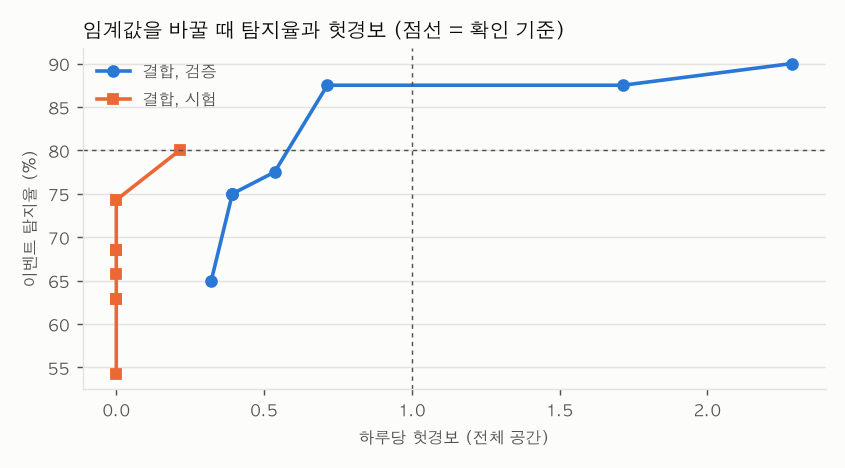
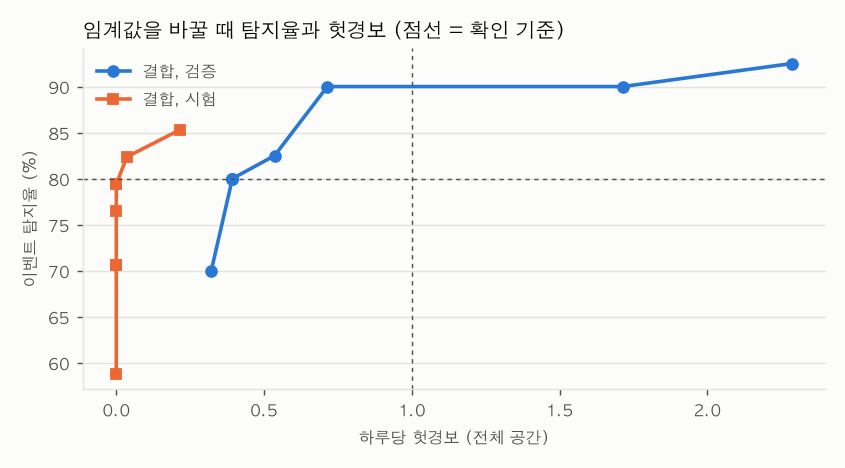
Add round 2 results for assignments 4 and 5
Anomaly: retrained AE with frozen-humidity rule, evaluated on test seeds 33 and 22.
State: reran with false-occupied <= 2% threshold rule (no threshold met it on val, 0.95 kept).

diff --git a/docs/reports/004-detection.md b/docs/reports/004-detection.md
@@ -1,6 +1,6 @@
 # 과제 4 탐지 성적표
 
-`python -m anomaly evaluate`가 만든 표. 만든 시각 2026-10-22 01:20 UTC. 해석은 [004-anomaly.md](004-anomaly.md).
+`python -m anomaly evaluate`가 만든 표. 만든 시각 2026-10-22 09:01 UTC. 해석은 [004-anomaly.md](004-anomaly.md).
 
 ## 측정 조건
 
@@ -13,9 +13,9 @@
 | 시험 기간 | 2026-09-23 ~ 2026-10-21 KST (끝 미포함, 28일) |
 | 칸 | 5분, [t−5분, t) → t |
 | 실행 환경 | Darwin arm64, Python 3.12.15 (분석은 보드 밖에서, 전력 모드 해당 없음) |
-| 코드·설정 커밋 | `976b74e (커밋 안 된 수정 있음)` (`preprocess.toml`) |
-| 고장 | 합성 5종을 실데이터 복사본에 주입. 검증 씨앗 11 40건(임계값 결정), 시험 씨앗 22 35건(평가) |
-| 모델 | 오토인코더 (창 12칸, 학습 기간 정상 데이터만), 임계값 0.0917 (2026-10-22T01:19:38Z, 검증 기준) |
+| 코드·설정 커밋 | `1826f6f` (`preprocess.toml`) |
+| 고장 | 합성 5종을 실데이터 복사본에 주입. 검증 씨앗 11 40건(임계값 결정), 시험 씨앗 33 34건(평가) |
+| 모델 | 오토인코더 (창 12칸, 학습 기간 정상 데이터만), 임계값 0.0917 (2026-10-22T09:01:03Z, 검증 기준) |
 | 규칙 기준값 | 학습 기간. 값 고정 칸 수 {'co2': 9, 'humidity': 230} (정상 최장 {'co2': 6, 'humidity': 153}) |
 | 경보 묶기 | 60분 안의 경보는 한 이벤트, 고장 끝 뒤 유예 60분 |
 
@@ -23,7 +23,7 @@
 
 | 조건 | 결과 | 판정 |
 |---|---|---|
-| 1. 모델+규칙 이벤트 탐지율 ≥ 80% | 24/35 = 69% | 미통과 |
+| 1. 모델+규칙 이벤트 탐지율 ≥ 80% | 27/34 = 79% | 미통과 |
 | 2. 헛경보 ≤ 하루 1회 (전체 공간) | 0건 / 28일 = 0.00회/일 | 통과 |
 | 3. 모델·규칙이 못 잡는 종류와 이유 | 아래 종류별 표, 해석은 004-anomaly.md | - |
 
@@ -31,17 +31,17 @@
 
 | 고장 | 건수 | 모델 | 규칙 | 결합 | 결합 지연 중앙값 | 원인 항목 맞음 (결합) |
 |---|---:|---:|---:|---:|---:|---:|
-| 튄 값 | 8 | 8/8 | 8/8 | 8/8 | 0분 | 8/8 |
-| 값 고정 | 8 | 1/8 | 2/8 | 2/8 | 35분 | 2/8 |
-| 영점 틀어짐 | 8 | 5/8 | 4/8 | 6/8 | 900분 | 6/8 |
-| 냉방 정지 | 8 | 8/8 | 1/8 | 8/8 | 155분 | 8/8 |
-| 환기 정지 | 3 | 0/3 | 0/3 | 0/3 | - | 0/3 |
+| 튄 값 | 8 | 8/8 | 7/8 | 8/8 | 0분 | 7/8 |
+| 값 고정 | 8 | 1/8 | 4/8 | 4/8 | 35분 | 4/8 |
+| 영점 틀어짐 | 8 | 6/8 | 4/8 | 7/8 | 1190분 | 7/8 |
+| 냉방 정지 | 8 | 8/8 | 4/8 | 8/8 | 138분 | 7/8 |
+| 환기 정지 | 2 | 0/2 | 0/2 | 0/2 | - | 0/2 |
 
 | 방법 | 탐지 | 탐지율 | 지연 중앙값 | 헛경보 | 하루당 |
 |---|---:|---:|---:|---:|---:|
-| 모델만 | 22/35 | 63% | 140분 | 0 | 0.00 |
-| 규칙만 | 15/35 | 43% | 5분 | 0 | 0.00 |
-| 결합 | 24/35 | 69% | 132분 | 0 | 0.00 |
+| 모델만 | 23/34 | 68% | 145분 | 0 | 0.00 |
+| 규칙만 | 19/34 | 56% | 35분 | 0 | 0.00 |
+| 결합 | 27/34 | 79% | 120분 | 0 | 0.00 |
 
 헛경보를 낸 탐지기 (결합): 없음
 
@@ -51,27 +51,23 @@
 
 | 임계값 | 검증 결합 탐지율 | 검증 헛경보/일 | 시험 결합 탐지율 | 시험 헛경보/일 | 시험 모델만 탐지율 |
 |---:|---:|---:|---:|---:|---:|
-| 0.0599 | 90% | 2.29 | 80% | 0.21 | 77% |
-| 0.0705 | 88% | 1.71 | 74% | 0.00 | 71% |
-| 0.0917 ← 선택 | 88% | 0.71 | 69% | 0.00 | 63% |
-| 0.1084 | 78% | 0.54 | 69% | 0.00 | 63% |
-| 0.1342 | 75% | 0.39 | 66% | 0.00 | 51% |
-| 0.1709 | 75% | 0.39 | 63% | 0.00 | 49% |
-| 0.1941 | 75% | 0.39 | 63% | 0.00 | 49% |
-| 0.2972 | 65% | 0.32 | 54% | 0.00 | 37% |
+| 0.0599 | 92% | 2.29 | 85% | 0.21 | 76% |
+| 0.0705 | 90% | 1.71 | 82% | 0.04 | 74% |
+| 0.0917 ← 선택 | 90% | 0.71 | 79% | 0.00 | 68% |
+| 0.1084 | 82% | 0.54 | 79% | 0.00 | 65% |
+| 0.1342 | 80% | 0.39 | 76% | 0.00 | 59% |
+| 0.1709 | 80% | 0.39 | 71% | 0.00 | 47% |
+| 0.1941 | 80% | 0.39 | 71% | 0.00 | 47% |
+| 0.2972 | 70% | 0.32 | 59% | 0.00 | 26% |
 
 ## 놓친 고장 (결합)
 
 | 종류 | 공간 | 항목 | 시작 (KST) | 크기 |
 |---|---|---|---|---:|
-| 값 고정 | 사무실 | humidity | 09-26 07:10 | 1.3 |
-| 영점 틀어짐 | 실습실 | co2 | 09-28 02:20 | 292.5 |
-| 값 고정 | 사무실 | humidity | 09-30 00:45 | 1.3 |
-| 영점 틀어짐 | 회의실 | co2 | 10-05 16:25 | 266.5 |
-| 값 고정 | 사무실 | humidity | 10-08 17:20 | 2.8 |
-| 값 고정 | 사무실 밖 | humidity | 10-11 18:15 | 2.6 |
-| 값 고정 | 실습실 | humidity | 10-13 02:05 | 4.0 |
-| 환기 정지 | 실습실 | co2 | 10-15 09:00 | 1.8 |
-| 환기 정지 | 실습실 | co2 | 10-16 09:00 | 1.8 |
-| 값 고정 | 실습실 | humidity | 10-16 20:40 | 3.2 |
+| 값 고정 | 회의실 | humidity | 09-30 12:30 | 3.5 |
+| 값 고정 | 사무실 밖 | temperature | 09-30 19:45 | 1.8 |
+| 영점 틀어짐 | 실습실 | co2 | 10-05 05:15 | 289.8 |
+| 값 고정 | 실습실 | humidity | 10-07 07:35 | 3.1 |
+| 값 고정 | 회의실 | humidity | 10-07 23:30 | 2.9 |
+| 환기 정지 | 실습실 | co2 | 10-14 13:00 | 1.8 |
 | 환기 정지 | 실습실 | co2 | 10-19 13:00 | 1.8 |

diff --git a/docs/reports/004-detection-seed22.md b/docs/reports/004-detection-seed22.md
@@ -1,0 +1,77 @@
+# 과제 4 탐지 성적표
+
+`python -m anomaly evaluate`가 만든 표. 만든 시각 2026-10-22 09:06 UTC. 해석은 [004-anomaly.md](004-anomaly.md).
+
+## 측정 조건
+
+| 항목 | 값 |
+|---|---|
+| 데이터 | 실데이터 (교육장 InfluxDB `iot-bucket`), 합성 아님 |
+| 데이터 기간 | 2025-09-03 15:45 ~ 2026-10-21 16:00 KST (5분 칸 끝 시각) |
+| 학습 기간 | 2025-09-03 ~ 2026-08-26 KST (끝 미포함, 357일) |
+| 검증 기간 | 2026-08-26 ~ 2026-09-23 KST (끝 미포함, 28일) |
+| 시험 기간 | 2026-09-23 ~ 2026-10-21 KST (끝 미포함, 28일) |
+| 칸 | 5분, [t−5분, t) → t |
+| 실행 환경 | Darwin arm64, Python 3.12.15 (분석은 보드 밖에서, 전력 모드 해당 없음) |
+| 코드·설정 커밋 | `1826f6f` (`preprocess.toml`) |
+| 고장 | 합성 5종을 실데이터 복사본에 주입. 검증 씨앗 11 40건(임계값 결정), 시험 씨앗 22 35건(평가) |
+| 모델 | 오토인코더 (창 12칸, 학습 기간 정상 데이터만), 임계값 0.0917 (2026-10-22T09:01:03Z, 검증 기준) |
+| 규칙 기준값 | 학습 기간. 값 고정 칸 수 {'co2': 9, 'humidity': 230} (정상 최장 {'co2': 6, 'humidity': 153}) |
+| 경보 묶기 | 60분 안의 경보는 한 이벤트, 고장 끝 뒤 유예 60분 |
+
+## 완료 조건
+
+| 조건 | 결과 | 판정 |
+|---|---|---|
+| 1. 모델+규칙 이벤트 탐지율 ≥ 80% | 24/35 = 69% | 미통과 |
+| 2. 헛경보 ≤ 하루 1회 (전체 공간) | 0건 / 28일 = 0.00회/일 | 통과 |
+| 3. 모델·규칙이 못 잡는 종류와 이유 | 아래 종류별 표, 해석은 004-anomaly.md | - |
+
+## 고장 종류별 (시험 기간)
+
+| 고장 | 건수 | 모델 | 규칙 | 결합 | 결합 지연 중앙값 | 원인 항목 맞음 (결합) |
+|---|---:|---:|---:|---:|---:|---:|
+| 튄 값 | 8 | 8/8 | 8/8 | 8/8 | 0분 | 7/8 |
+| 값 고정 | 8 | 1/8 | 2/8 | 2/8 | 35분 | 2/8 |
+| 영점 틀어짐 | 8 | 5/8 | 4/8 | 6/8 | 900분 | 6/8 |
+| 냉방 정지 | 8 | 8/8 | 3/8 | 8/8 | 155분 | 6/8 |
+| 환기 정지 | 3 | 0/3 | 0/3 | 0/3 | - | 0/3 |
+
+| 방법 | 탐지 | 탐지율 | 지연 중앙값 | 헛경보 | 하루당 |
+|---|---:|---:|---:|---:|---:|
+| 모델만 | 22/35 | 63% | 140분 | 0 | 0.00 |
+| 규칙만 | 17/35 | 49% | 35분 | 0 | 0.00 |
+| 결합 | 24/35 | 69% | 132분 | 0 | 0.00 |
+
+헛경보를 낸 탐지기 (결합): 없음
+
+## 임계값을 바꿀 때
+
+![004-threshold](figures/004-threshold-seed22.png)
+
+| 임계값 | 검증 결합 탐지율 | 검증 헛경보/일 | 시험 결합 탐지율 | 시험 헛경보/일 | 시험 모델만 탐지율 |
+|---:|---:|---:|---:|---:|---:|
+| 0.0599 | 92% | 2.29 | 80% | 0.21 | 77% |
+| 0.0705 | 90% | 1.71 | 74% | 0.00 | 71% |
+| 0.0917 ← 선택 | 90% | 0.71 | 69% | 0.00 | 63% |
+| 0.1084 | 82% | 0.54 | 69% | 0.00 | 63% |
+| 0.1342 | 80% | 0.39 | 66% | 0.00 | 51% |
+| 0.1709 | 80% | 0.39 | 63% | 0.00 | 49% |
+| 0.1941 | 80% | 0.39 | 63% | 0.00 | 49% |
+| 0.2972 | 70% | 0.32 | 57% | 0.00 | 37% |
+
+## 놓친 고장 (결합)
+
+| 종류 | 공간 | 항목 | 시작 (KST) | 크기 |
+|---|---|---|---|---:|
+| 값 고정 | 사무실 | humidity | 09-26 07:10 | 1.3 |
+| 영점 틀어짐 | 실습실 | co2 | 09-28 02:20 | 292.5 |
+| 값 고정 | 사무실 | humidity | 09-30 00:45 | 1.3 |
+| 영점 틀어짐 | 회의실 | co2 | 10-05 16:25 | 266.5 |
+| 값 고정 | 사무실 | humidity | 10-08 17:20 | 2.8 |
+| 값 고정 | 사무실 밖 | humidity | 10-11 18:15 | 2.6 |
+| 값 고정 | 실습실 | humidity | 10-13 02:05 | 4.0 |
+| 환기 정지 | 실습실 | co2 | 10-15 09:00 | 1.8 |
+| 환기 정지 | 실습실 | co2 | 10-16 09:00 | 1.8 |
+| 값 고정 | 실습실 | humidity | 10-16 20:40 | 3.2 |
+| 환기 정지 | 실습실 | co2 | 10-19 13:00 | 1.8 |

diff --git a/docs/reports/005-classification.md b/docs/reports/005-classification.md
@@ -1,6 +1,6 @@
 # 과제 5 분류 성적표
 
-`python -m state run`이 만든 표. 만든 시각 2026-10-22 01:20 UTC. 해석은 [005-state.md](005-state.md).
+`python -m state run`이 만든 표. 만든 시각 2026-10-22 09:07 UTC. 해석은 [005-state.md](005-state.md).
 
 ## 측정 조건
 
@@ -13,12 +13,12 @@
 | 시험 기간 | 2026-09-23 ~ 2026-10-21 KST (끝 미포함, 28일) |
 | 칸 | 5분, [t−5분, t) → t |
 | 실행 환경 | Darwin arm64, Python 3.12.15 (분석은 보드 밖에서, 전력 모드 해당 없음) |
-| 코드·설정 커밋 | `976b74e (커밋 안 된 수정 있음)` (`preprocess.toml`) |
+| 코드·설정 커밋 | `1826f6f` (`preprocess.toml`) |
 | 사용 여부 정답 | 실습실 일정(평일 09:00~11:30·13:00~18:00, 공휴일 제외). 점심·일정 변화 직후 15분은 제외 |
 | 사용 여부 입력 | 센서만 (CO₂·온도·습도 수준과 변화). 시각·요일·일정 없음 |
 | 환기 경보 정답 | 지금 < 1,000 ppm이고 30분 안 ≥ 1,000 ppm. 이미 1,000 이상인 시각 제외 |
-| 모델 | HistGradientBoosting(균형 가중치). 임계값은 검증 기간 (사용 여부 0.95: F1 최대, 환기 0.54: 재현율 ≥ 85% 중 macro-F1 최대) |
-| 직접 관찰 | 아직 없음 (`docs/observations/occupancy.csv`) |
+| 모델 | HistGradientBoosting(균형 가중치). 임계값은 검증 기간 (사용 여부 0.95: 비어있음→사용중 ≤ 2% 중 재현율 최대, 환기 0.54: 재현율 ≥ 85% 중 macro-F1 최대) |
+| 직접 관찰 | 3구간 |
 
 ## 완료 조건
 
